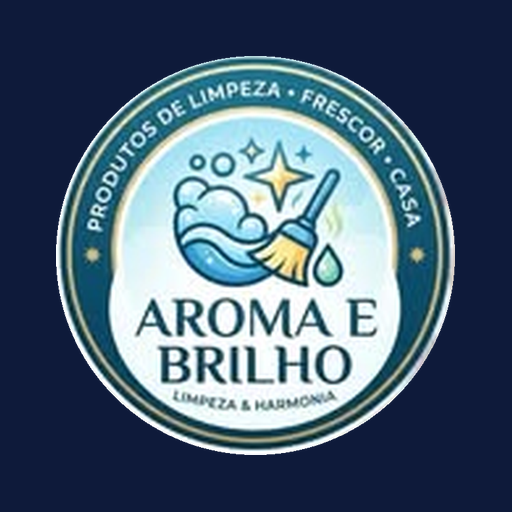
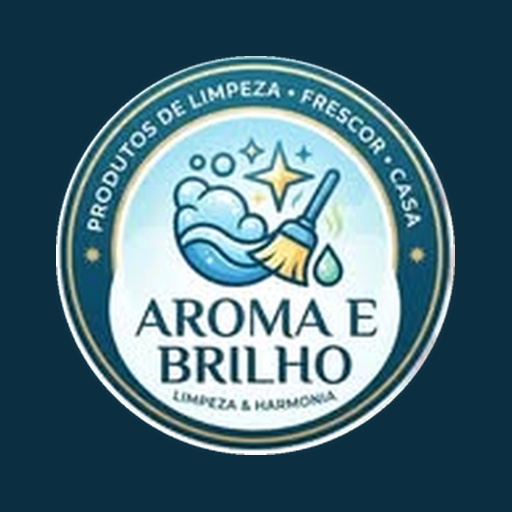
Add files via upload

diff --git a/index.html b/index.html
@@ -4,13 +4,13 @@
 <meta charset="UTF-8">
 <meta name="viewport" content="width=device-width, initial-scale=1, viewport-fit=cover">
 <meta name="robots" content="noindex">
-<meta name="theme-color" content="#0e1a3a">
+<meta name="theme-color" content="#0b2f40">
 <link rel="icon" type="image/png" href="favicon.png"><link rel="manifest" href="manifest.webmanifest"><link rel="apple-touch-icon" href="icon-192.png">
 <title>Painel | Aroma e Brilho</title>
 <link rel="preconnect" href="https://fonts.googleapis.com"><link rel="preconnect" href="https://fonts.gstatic.com" crossorigin>
 <link rel="stylesheet" href="https://fonts.googleapis.com/css2?family=Bricolage+Grotesque:opsz,wght@12..96,600;12..96,800&family=Figtree:wght@400;500;600;700&display=swap">
 <style>
-:root{--azul:#1b47f5;--azul2:#0f2fb8;--ink:#0e1a3a;--bg:#f2f5ff;--sf:#fff;--lim:#ffe24a;--mut:#5b6787;--bd:#dde3f5;--ok:#0b8a5f;--warn:#a86400;--red:#d63b40;color-scheme:light}
+:root{--azul:#19647e;--azul2:#0f4a60;--ink:#0b2f40;--bg:#eef8fb;--sf:#fff;--lim:#f0c85a;--mut:#55707c;--bd:#d3e6ee;--ok:#0b7f5a;--warn:#a86400;--red:#c9363b;color-scheme:light}
 *{box-sizing:border-box}
 body{margin:0;background:var(--bg);color:var(--ink);font-family:Figtree,system-ui,sans-serif;line-height:1.45}
 h1,h2,h3,.big{font-family:"Bricolage Grotesque",Figtree,sans-serif}
@@ -73,8 +73,8 @@ details.lj .g{display:grid;gap:8px;padding-bottom:14px}
 .tabs b{background:var(--lim);color:var(--ink);border-radius:99px;padding:0 9px;margin-left:8px;font-size:.8rem}.tabs b:empty{display:none}
 .tools2{display:flex;gap:8px;flex-wrap:wrap;margin-bottom:12px}
 .od{background:var(--sf);border:1.5px solid var(--bd);border-radius:20px;padding:16px;margin-bottom:12px;display:grid;gap:10px}
-.od.nv{border-color:var(--azul);box-shadow:0 0 0 4px rgba(27,71,245,.12);animation:pulse 1.6s 3}
-@keyframes pulse{50%{box-shadow:0 0 0 12px rgba(27,71,245,0)}}
+.od.nv{border-color:var(--azul);box-shadow:0 0 0 4px rgba(25,100,126,.12);animation:pulse 1.6s 3}
+@keyframes pulse{50%{box-shadow:0 0 0 12px rgba(25,100,126,0)}}
 .oh{display:flex;align-items:center;gap:10px;flex-wrap:wrap}.oh h3{margin:0;font-size:1.2rem}.oh time{margin-left:auto;color:var(--mut);font-size:.85rem}
 .bg{border-radius:99px;padding:3px 12px;font-size:.8rem;font-weight:700}
 .s_novo{background:var(--lim)}.s_confirmado{background:#d3e0ff;color:var(--azul2)}.s_entrega{background:#d3f4e4;color:var(--ok)}.s_entregue{background:var(--ok);color:#fff}.s_cancelado{background:#ffdcd6;color:var(--red)}
@@ -82,6 +82,12 @@ details.lj .g{display:grid;gap:8px;padding-bottom:14px}
 .pgm,.ob{margin:0;font-size:.92rem}.ob{color:var(--mut)}
 .ot{display:flex;justify-content:space-between;font-family:"Bricolage Grotesque";font-weight:800;font-size:1.35rem}
 .oa{display:flex;gap:8px;flex-wrap:wrap;align-items:center}.lk{text-decoration:none;display:inline-block}
+.alerta{background:var(--red);color:#fff;padding:12px 18px;font-weight:600;font-size:.92rem;line-height:1.4}
+.hrw{display:flex;align-items:center;gap:8px;flex-wrap:wrap}.hrw label{width:112px;font-weight:600;display:flex;gap:6px;align-items:center}
+.hrw input[type=time]{width:112px}.hrw input[type=checkbox],.chk input{width:auto}
+.chk{display:flex;gap:8px;align-items:center;font-weight:600;margin-top:8px}
+.fotob{width:54px;height:54px;border-radius:12px;border:1.5px dashed var(--bd);display:grid;place-items:center;overflow:hidden;cursor:pointer;font-size:.72rem;color:var(--mut);flex:none;text-align:center}
+.fotob img{width:100%;height:100%;object-fit:cover}
 .lg{width:34px;height:34px;border-radius:50%;margin-right:10px;vertical-align:middle;box-shadow:0 0 0 2px rgba(255,255,255,.5)}
 .lgb{width:110px;height:110px;border-radius:50%;margin-bottom:18px;box-shadow:0 10px 26px rgba(0,0,0,.25)}
 textarea{font:inherit;color:var(--ink);background:var(--sf);border:1.5px solid var(--bd);border-radius:10px;padding:9px 11px;width:100%;resize:vertical}
@@ -147,7 +153,7 @@ function lista(){if(!$("lista"))return;
   const ok=p=>p.nome.toLowerCase().includes(q)&&(filtro==="todos"||(filtro==="esgotado"&&p.vars.some(v=>e0(v)<=0))||(filtro==="baixo"&&p.vars.some(v=>e0(v)>0&&e0(v)<=5)));
   const cats=[...new Set(prods.map(p=>p.cat))];
   const h=prods.map((p,i)=>ok(p)?`<div class="pr"><div class="hd">
-    <input class="ic" value="${esc(p.ico)}" aria-label="Ícone" onchange="setP(${i},'ico',this.value)">
+    <label class="fotob" title="Trocar a foto">${p.foto?`<img src="${esc(p.foto)}" alt="Foto de ${esc(p.nome)}">`:`<span>Adicionar foto</span>`}<input type="file" accept="image/*" hidden onchange="foto(${i},this)"></label>${p.foto?`<button class="del" onclick="setP(${i},'foto','');lista()">Tirar foto</button>`:""}
     <input class="nm" value="${esc(p.nome)}" aria-label="Nome" onchange="setP(${i},'nome',this.value)">
     <input class="ct" list="cats" placeholder="Categoria" value="${esc(p.cat)}" aria-label="Categoria" onchange="setP(${i},'cat',this.value)"></div>
     <div class="vs">${p.vars.map((v,j)=>{const e=e0(v),c=e<=0?"out":e<=5?"low":"";return `<div class="v">
@@ -174,8 +180,13 @@ function produtosView(){
   $("mn").innerHTML=`<div class="stats" id="stats"></div>
   <details class="lj"><summary>Dados da loja e bairros atendidos</summary><div class="g">
     <input id="l_end" placeholder="Endereço" value="${esc(loja.end)}" aria-label="Endereço" onchange="setLoja('end',this.value)">
-    <input id="l_hor" placeholder="Horário, ex.: Seg a Sáb, 8h às 18h" value="${esc(loja.hor)}" aria-label="Horário" onchange="setLoja('hor',this.value)">
-    <p class="l2">Bairros com entrega grátis, um por linha</p><textarea id="l_bairros" rows="4" placeholder="Vila Velha&#10;Jardim Iracema" onchange="setBairros(this.value)">${esc((loja.bairros||[]).join("\n"))}</textarea></div></details>
+    <input id="l_hor" placeholder="Aviso de horário (opcional), ex.: Fechado em feriados" value="${esc(loja.hor)}" aria-label="Horário" onchange="setLoja('hor',this.value)">
+    <p class="l2">Bairros com entrega grátis, um por linha</p><textarea id="l_bairros" rows="4" placeholder="Vila Velha&#10;Jardim Iracema" onchange="setBairros(this.value)">${esc((loja.bairros||[]).join("\n"))}</textarea>
+    <p class="l2">Taxa de entrega para bairros fora da lista</p>
+    <div class="pre"><span>R$</span><input type="number" step="0.01" min="0" aria-label="Taxa de entrega" value="${loja.taxa==null?10:loja.taxa}" onchange="setTaxa(this.value)"></div>
+    <p class="l2">Horário de funcionamento</p>
+    ${[1,2,3,4,5,6,0].map(d=>{const h=(loja.horarios||{})[d]||{on:false,a:"08:00",f:"18:00"};return `<div class="hrw"><label><input type="checkbox" ${h.on?"checked":""} onchange="setH(${d},'on',this.checked)"> ${NOMES[d]}</label><input type="time" aria-label="Abre ${NOMES[d]}" value="${h.a||"08:00"}" onchange="setH(${d},'a',this.value)"><span>às</span><input type="time" aria-label="Fecha ${NOMES[d]}" value="${h.f||"18:00"}" onchange="setH(${d},'f',this.value)"></div>`}).join("")}
+    <label class="chk"><input type="checkbox" ${loja.fechado?"checked":""} onchange="setLoja('fechado',this.checked)"> Fechar a loja agora (o site para de aceitar pedidos)</label></div></details>
   <div class="tools"><input type="search" id="bq" placeholder="Buscar produto" aria-label="Buscar produto" value="${esc(busca)}"><button class="btn" onclick="novo()">Novo produto</button></div>
   <p class="info">Tudo é salvo na hora e já aparece no site dos clientes.</p><div id="lista"></div>`;
   $("bq").oninput=e=>{busca=e.target.value;lista()};
@@ -234,11 +245,12 @@ function card(o){
   const pg=o.pag==="Dinheiro"?(o.troco?`Dinheiro, troco para ${brl(o.troco)} (levar ${brl(o.troco-o.total)})`:"Dinheiro, sem troco"):"Pix";
   const B={novo:[["confirmado","Confirmar pedido"]],confirmado:[["entrega","Saiu para entrega"]],entrega:[["entregue","Marcar como entregue"]]}[o.status]||[];
   return `<article class="od ${o.status==="novo"?"nv":""}"><div class="oh"><h3>Pedido ${esc(o.codigo)}</h3><span class="bg s_${o.status}">${ST[o.status]}</span><time>${h}</time></div>
-  <p class="cl"><b>${esc(c.nome)}</b><br>${esc(c.bairro)}, ${esc(c.rua)}</p>${fora?`<p class="fora">Bairro fora da lista de entrega grátis. Confirme a entrega e o valor com o cliente.</p>`:""}
+  <p class="cl"><b>${esc(c.nome)}</b><br>${esc(c.bairro)}, ${esc(c.rua)}</p>${o.entrega?`<p class="fora">Bairro fora da lista: taxa de entrega de ${brl(o.entrega)} somada ao total.</p>`:fora?`<p class="fora">Bairro fora da lista de entrega grátis. Confirme a entrega com o cliente.</p>`:""}
   <ul class="oi">${(o.itens||[]).map(i=>`<li><span>${i.q}x ${esc(i.nome)}</span><span>${brl(i.q*i.p)}</span></li>`).join("")}</ul>
   <p class="pgm">${pg}</p>${o.obs?`<p class="ob">Obs: ${esc(o.obs)}</p>`:""}
-  <div class="ot"><span>Total</span><span>${brl(o.total)}</span></div>
+  ${o.entrega?`<div class="ot" style="font-size:.9rem;font-weight:500"><span>Entrega</span><span>${brl(o.entrega)}</span></div>`:""}<div class="ot"><span>Total</span><span>${brl(o.total)}</span></div>
   <div class="oa">${B.map(([st,t])=>`<button class="btn" onclick="mudarStatus('${o.id}','${st}')">${t}</button>`).join("")}
+  <button class="ghost" onclick="imprimir('${o.id}')">Imprimir ficha</button>
   ${wa?`<a class="ghost lk" target="_blank" rel="noopener" href="${wa}">Chamar no WhatsApp</a>`:""}
   ${B.length?`<button class="del" style="margin-left:auto" onclick="if(confirm('Cancelar o pedido ${esc(o.codigo)}?'))mudarStatus('${o.id}','cancelado')">Cancelar pedido</button>`:""}</div></article>`;
 }
@@ -262,6 +274,35 @@ async function ajustar(o,sinal){
   for(const it of o.itens||[]){const p=prods.find(x=>x.id===it.pid),v=p&&p.vars[it.vi];if(!v)continue;v.e=Math.max(0,e0(v)+sinal*it.q);tocados.set(p.id,p)}
   await Promise.all([...tocados.values()].map(p=>setDoc(doc(db,"produtos",String(p.id)),p)));
 }
+const NOMES=["Domingo","Segunda","Terça","Quarta","Quinta","Sexta","Sábado"];
+function imprimir(id){
+  const o=pedidos.find(x=>x.id===id);if(!o)return;
+  const c=o.cliente||{},d=new Date(o.criadoEm).toLocaleString("pt-BR");
+  const sub=(o.itens||[]).reduce((a,i)=>a+i.q*i.p,0);
+  const pg=o.pag==="Dinheiro"?(o.troco?`Dinheiro. Troco para ${brl(o.troco)}: LEVAR ${brl(o.troco-o.total)}`:"Dinheiro. Sem troco"):"Pix";
+  const h=`<!doctype html><html lang="pt-BR"><meta charset="utf-8"><title>Pedido ${esc(o.codigo)}</title><style>@page{margin:6mm}body{font:14px/1.35 Arial,sans-serif;max-width:76mm;margin:0 auto;color:#000}h1{font-size:18px;text-align:center;margin:0}p{margin:3px 0}.c{text-align:center}hr{border:0;border-top:1px dashed #000;margin:8px 0}.r{display:flex;justify-content:space-between;gap:8px}.t{font-size:17px;font-weight:700}</style><body>
+<h1>Aroma e Brilho</h1><p class="c">Pedido #${esc(o.codigo)} - ${d}</p><hr>
+<p><b>${esc(c.nome)}</b></p><p>${esc(c.rua)}</p><p>Bairro: ${esc(c.bairro)}</p><p>Tel: ${esc(c.tel)}</p><hr>
+${(o.itens||[]).map(i=>`<div class="r"><span>${i.q}x ${esc(i.nome)}</span><span>${brl(i.q*i.p)}</span></div>`).join("")}<hr>
+<div class="r"><span>Itens</span><span>${brl(sub)}</span></div><div class="r"><span>Entrega</span><span>${o.entrega?brl(o.entrega):"Grátis"}</span></div>
+<div class="r t"><span>TOTAL</span><span>${brl(o.total)}</span></div><hr>
+<p>Pagamento: ${esc(pg)}</p>${o.obs?`<p>Obs: ${esc(o.obs)}</p>`:""}
+<script>onload=()=>{print()}<\/script></body></html>`;
+  const w=window.open("","_blank","width=420,height=640");
+  if(!w){msg("O navegador bloqueou a janela. Permita pop-ups para imprimir.",1);return}
+  w.document.write(h);w.document.close();
+}
+async function foto(i,el){
+  const f=el.files&&el.files[0];if(!f)return;
+  try{
+    const url=await new Promise((res,rej)=>{const r=new FileReader();r.onerror=rej;r.onload=()=>{const im=new Image();im.onerror=rej;im.onload=()=>{
+      const M=420,s=Math.min(1,M/Math.max(im.width,im.height)),c=document.createElement("canvas");
+      c.width=Math.round(im.width*s);c.height=Math.round(im.height*s);
+      const x=c.getContext("2d");x.fillStyle="#fff";x.fillRect(0,0,c.width,c.height);x.drawImage(im,0,0,c.width,c.height);
+      res(c.toDataURL("image/jpeg",.8))};im.src=r.result};r.readAsDataURL(f)});
+    prods[i].foto=url;await save(prods[i]);lista();
+  }catch(e){msg("Não consegui usar essa imagem. Tente outra foto.",1)}
+}
 async function mudarStatus(id,st){
   const o=pedidos.find(x=>x.id===id);if(!o)return;
   const up={status:st};
@@ -274,6 +315,9 @@ async function mudarStatus(id,st){
   }catch(e){erro(e)}
 }
 Object.assign(window,{
+  imprimir,foto,
+  setTaxa:v=>{loja.taxa=Math.max(0,parseFloat(v)||0);setDoc(doc(db,"config","loja"),loja).then(()=>msg("Taxa salva")).catch(erro)},
+  setH:(d,k,v)=>{loja.horarios=loja.horarios||{};const h=loja.horarios[d]=loja.horarios[d]||{on:false,a:"08:00",f:"18:00"};h[k]=v;setDoc(doc(db,"config","loja"),loja).then(()=>msg("Horário salvo")).catch(erro)},
   setAba:k=>{aba=k;mostrar()},setBairros:v=>{loja.bairros=v.split("\n").map(x=>x.trim()).filter(Boolean);setDoc(doc(db,"config","loja"),loja).then(()=>msg("Bairros salvos")).catch(erro)},setFP:k=>{fp=k;listaPed()},mudarStatus,
   setF:k=>{filtro=k;lista()},
   setLoja:(k,v)=>{loja[k]=v;setDoc(doc(db,"config","loja"),loja).then(()=>msg("Alteração salva")).catch(erro)},
@@ -289,22 +333,30 @@ Object.assign(window,{
     msg("Produtos importados. Ajuste o estoque de cada um.")}
 });
 
+function alerta(t){let a=document.getElementById("alerta");if(!t){if(a)a.remove();return}if(!a){a=document.createElement("div");a.id="alerta";a.className="alerta";a.setAttribute("role","alert");document.body.prepend(a)}a.textContent=t}
+function falha(e){
+  const c=e&&e.code||"";
+  alerta(c==="permission-denied"?"O Firebase negou o acesso aos dados. Publique as regras (firestore.rules) com o mesmo e-mail que você usa no login do painel."
+    :c==="unavailable"||c==="deadline-exceeded"?"Sem conexão com o Firebase. Confira a internet e recarregue a página."
+    :"Não foi possível carregar os dados ("+(c||(e&&e.message)||"erro desconhecido")+").");
+}
+const ouvir=(ref,cb)=>onSnapshot(ref,s=>{alerta("");cb(s)},falha);
 onAuthStateChanged(auth,u=>{
   unsubs.forEach(f=>f());unsubs=[];lastKey="";
   if(!u){loginView();return}
   panel();primeira=true;pedidos=[];
-  unsubs.push(onSnapshot(query(collection(db,"pedidos"),orderBy("criadoEm","desc"),limit(400)),s=>{
+  unsubs.push(ouvir(query(collection(db,"pedidos"),orderBy("criadoEm","desc"),limit(400)),s=>{
     pedidos=s.docs.map(d=>({id:d.id,...d.data()}));
     if(!primeira)s.docChanges().forEach(c=>{if(c.type==="added"&&c.doc.data().status==="novo")avisar(c.doc.data())});
     primeira=false;listaPed();badge();if(aba==="vendas")relat();
   },erro));
-  unsubs.push(onSnapshot(collection(db,"produtos"),s=>{
+  unsubs.push(ouvir(collection(db,"produtos"),s=>{
     prods=s.docs.map(d=>d.data()).sort((a,b)=>(a.ordem||a.id)-(b.ordem||b.id));
     const key=prods.map(p=>p.id+":"+p.vars.length).join();
     if(key!==lastKey){lastKey=key;lista()}
     if(aba==="vendas")relat();
   }));
-  unsubs.push(onSnapshot(doc(db,"config","loja"),s=>{loja={end:"",hor:"",...(s.data()||{})};for(const k of["end","hor"]){const el=$("l_"+k);if(el&&document.activeElement!==el)el.value=loja[k]||""}}));
+  unsubs.push(ouvir(doc(db,"config","loja"),s=>{loja={end:"",hor:"",...(s.data()||{})};for(const k of["end","hor"]){const el=$("l_"+k);if(el&&document.activeElement!==el)el.value=loja[k]||""}}));
 });
 </script>
 <script>

diff --git a/sw.js b/sw.js
@@ -1,4 +1,4 @@
-const V="ab-v1",SHELL=["./","index.html","manifest.webmanifest","icon-192.png","icon-512.png","logo.png"];
+const V="ab-v2",SHELL=["./","index.html","manifest.webmanifest","icon-192.png","icon-512.png","logo.png"];
 self.addEventListener("install",e=>{e.waitUntil(caches.open(V).then(c=>c.addAll(SHELL)).then(()=>self.skipWaiting()))});
 self.addEventListener("activate",e=>{e.waitUntil(caches.keys().then(k=>Promise.all(k.filter(x=>x!==V).map(x=>caches.delete(x)))).then(()=>self.clients.claim()))});
 self.addEventListener("fetch",e=>{
